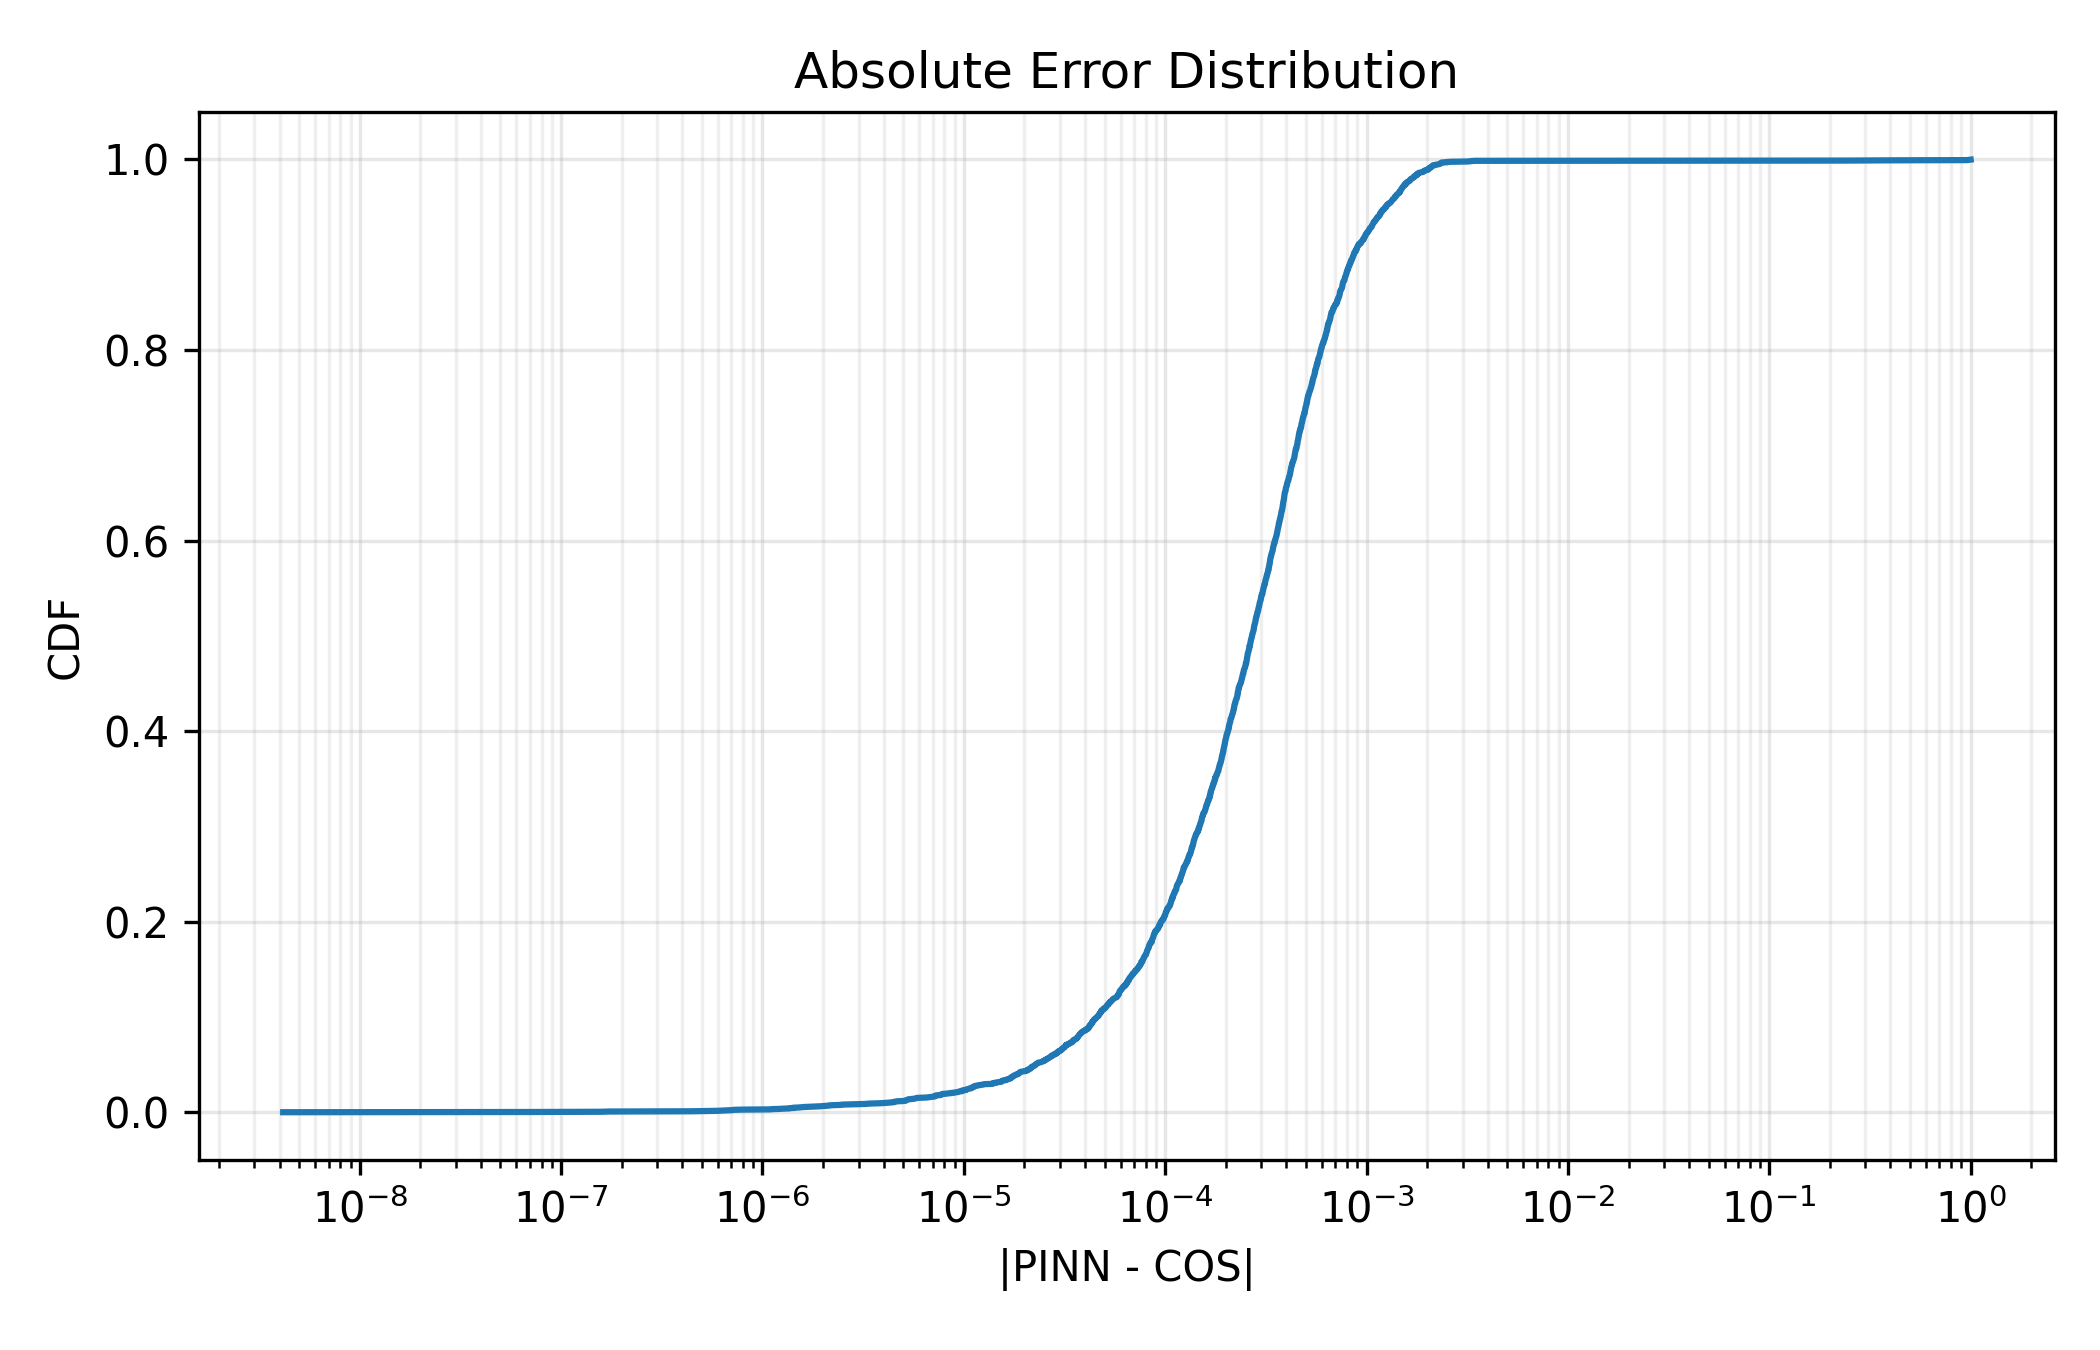
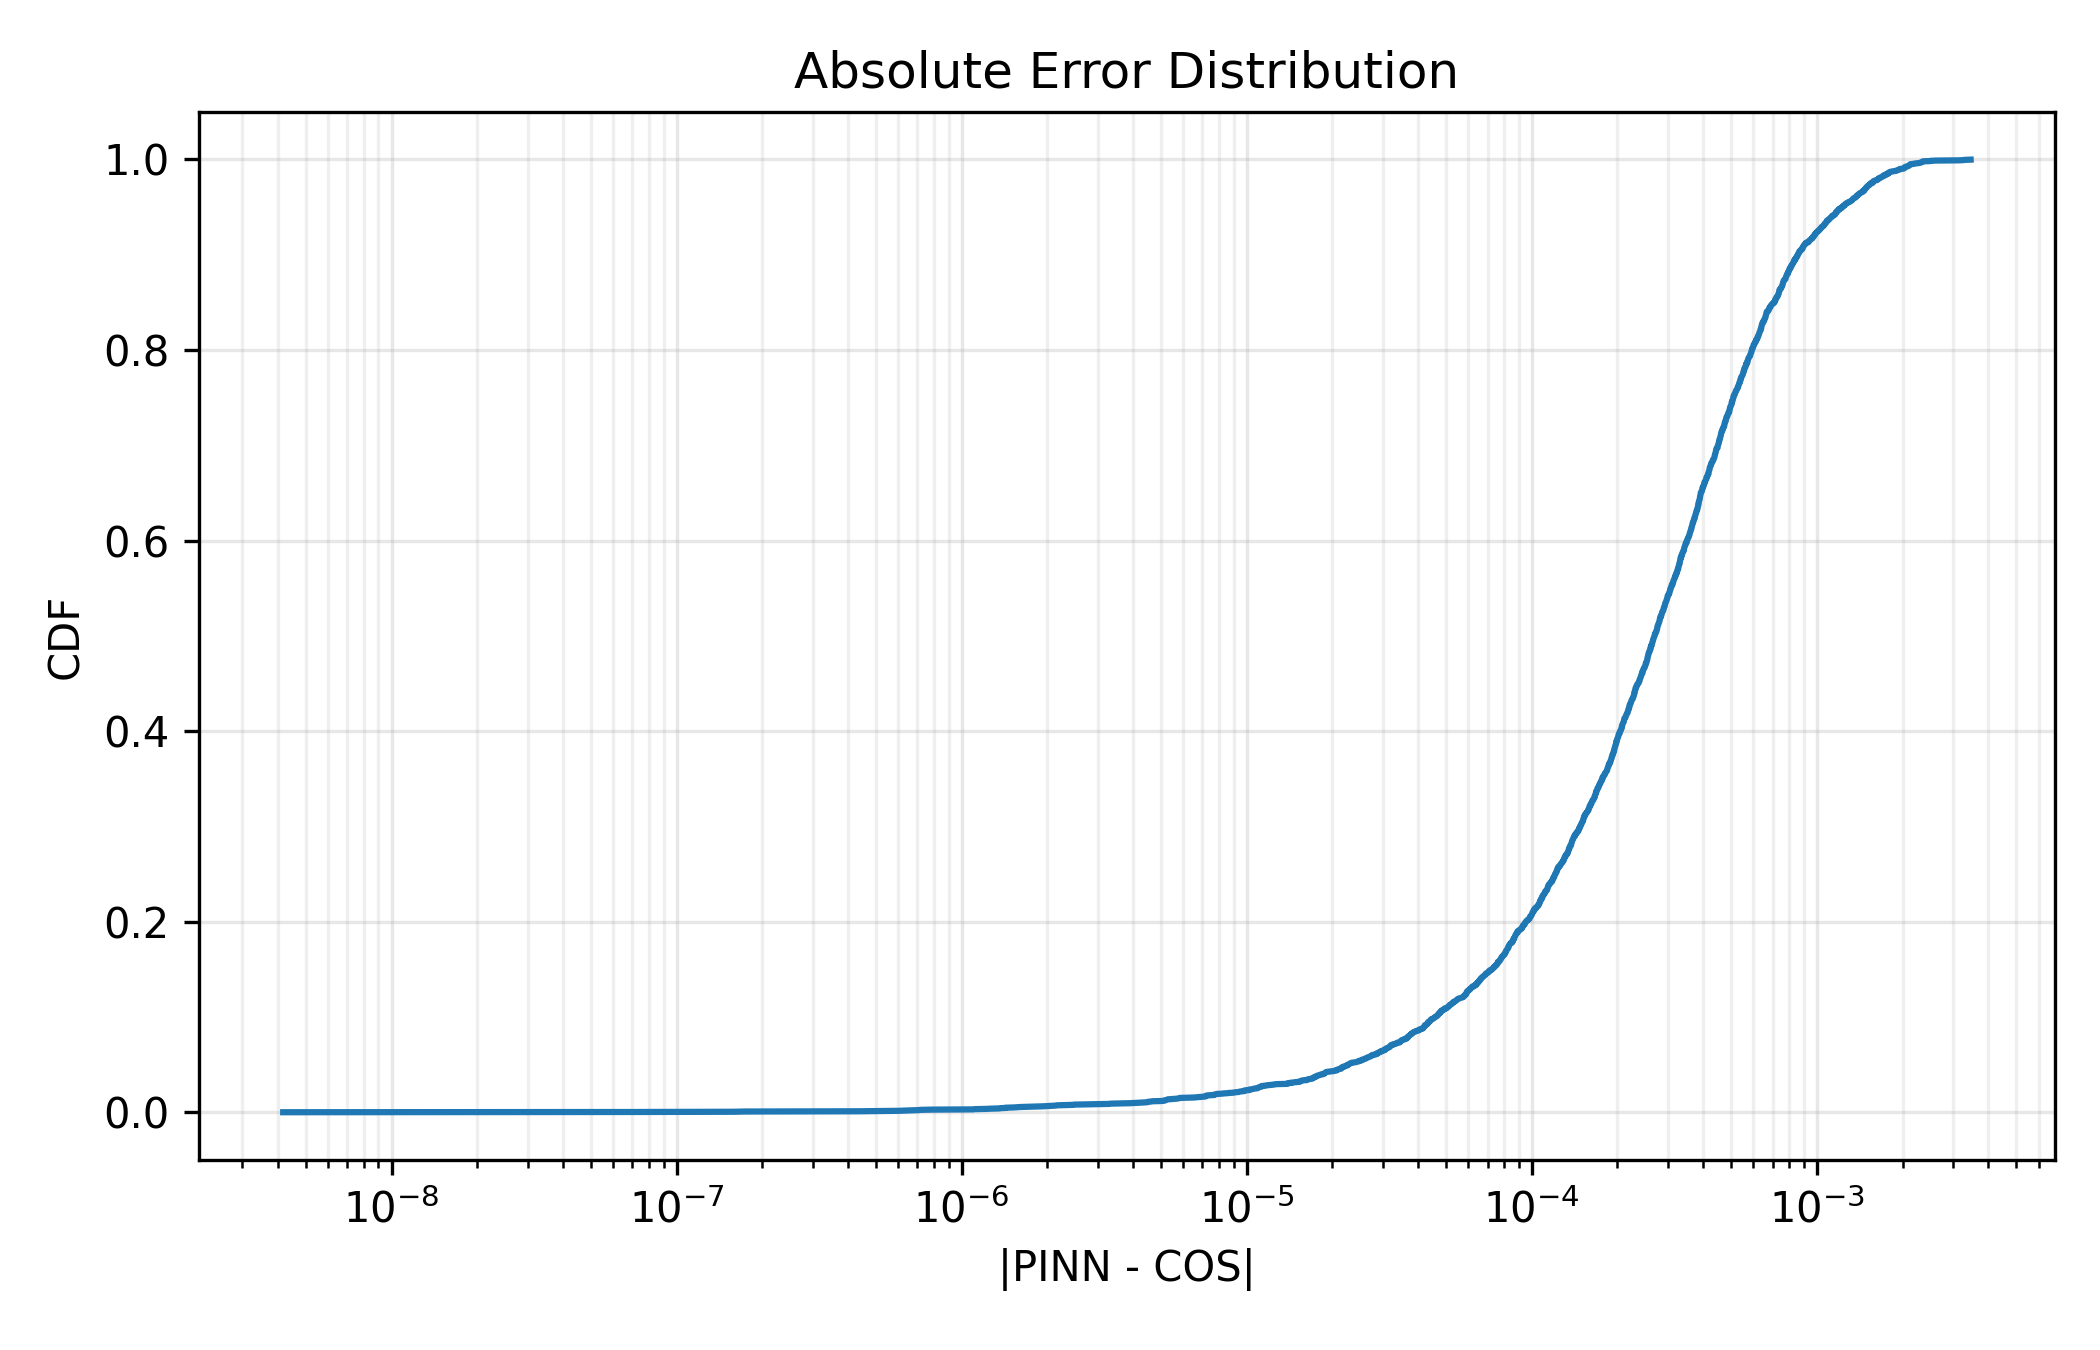
new run plots

diff --git a/scripts/benchmark_pinn_vs_cos.py b/scripts/benchmark_pinn_vs_cos.py
@@ -13,6 +13,7 @@ import yaml
 
 matplotlib.use("Agg")
 import matplotlib.pyplot as plt
+from matplotlib.colors import LogNorm
 
 
 PROJECT_ROOT = Path(__file__).resolve().parents[1]
@@ -90,7 +91,12 @@ def _predict_cos(
     cos_interval_rule: str,
     option_type: str,
     strike: float,
-) -> tuple[np.ndarray, int]:
+    cos_fallback_enabled: bool,
+    cos_fallback_interval_rule: str,
+    cos_fallback_N: int,
+    cos_fallback_L: float,
+    no_arb_tol: float,
+) -> tuple[np.ndarray, dict[str, int]]:
     idx = {name: i for i, name in enumerate(feature_order)}
     required = ["tau", "moneyness", "v", "rho", "kappa", "gamma", "bar_v", "r"]
     missing = [k for k in required if k not in idx]
@@ -98,8 +104,45 @@ def _predict_cos(
         raise KeyError(f"Missing required feature(s) for COS benchmark: {missing}")
 
     out = np.full(shape=x.shape[0], fill_value=np.nan, dtype=np.float64)
-    failed = 0
+    stats = {
+        "failed": 0,
+        "fallback_used": 0,
+        "fallback_emergency_used": 0,
+        "invalid_primary": 0,
+        "invalid_after_fallback": 0,
+    }
     cos_params = np.array([int(cos_N), float(cos_L)], dtype=np.float64)
+    cos_fallback_params = np.array([int(cos_fallback_N), float(cos_fallback_L)], dtype=np.float64)
+    opt_key = str(option_type).strip().lower()
+
+    def _price_once(*, interval_rule: str, params: np.ndarray) -> float:
+        return float(
+            COS_solver_scalar(
+                params_Heston=params_heston,
+                S0=S0,
+                K=float(strike),
+                tau=tau,
+                r=r,
+                COS_params=params,
+                opt_type=opt_key,
+                interval_rule=interval_rule,
+            )
+        )
+
+    def _is_no_arb_valid(price: float) -> bool:
+        if not np.isfinite(price):
+            return False
+        disc_k = float(strike) * float(np.exp(-r * tau))
+        if opt_key == "put":
+            lb = max(disc_k - S0, 0.0)
+            ub = disc_k
+        elif opt_key == "call":
+            lb = max(S0 - disc_k, 0.0)
+            ub = S0
+        else:
+            raise ValueError(f"Unsupported option_type '{option_type}'. Use put/call.")
+        tol = float(max(no_arb_tol, 0.0))
+        return (price >= (lb - tol)) and (price <= (ub + tol))
 
     for i in range(x.shape[0]):
         tau = float(x[i, idx["tau"]])
@@ -114,24 +157,57 @@ def _predict_cos(
         # In normalized coordinates K=1 by construction, so S0 = moneyness.
         S0 = m * float(strike)
         params_heston = np.array([rho, kappa, gamma, bar_v, v], dtype=np.float64)
+        price = np.nan
+        primary_ok = False
         try:
-            out[i] = float(
-                COS_solver_scalar(
-                    params_Heston=params_heston,
-                    S0=S0,
-                    K=float(strike),
-                    tau=tau,
-                    r=r,
-                    COS_params=cos_params,
-                    opt_type=option_type,
-                    interval_rule=cos_interval_rule,
-                )
-            )
+            price = _price_once(interval_rule=cos_interval_rule, params=cos_params)
+            primary_ok = _is_no_arb_valid(price)
+            if not primary_ok:
+                stats["invalid_primary"] += 1
         except Exception:
-            failed += 1
-            out[i] = np.nan
+            primary_ok = False
 
-    return out, failed
+        if (not primary_ok) and bool(cos_fallback_enabled):
+            try:
+                fallback_price = _price_once(
+                    interval_rule=cos_fallback_interval_rule,
+                    params=cos_fallback_params,
+                )
+                if _is_no_arb_valid(fallback_price):
+                    price = fallback_price
+                    primary_ok = True
+                    stats["fallback_used"] += 1
+            except Exception:
+                pass
+
+        if (not primary_ok) and bool(cos_fallback_enabled):
+            emergency_params = np.array(
+                [
+                    int(max(cos_N, cos_fallback_N)),
+                    float(max(cos_L, cos_fallback_L, 120.0)),
+                ],
+                dtype=np.float64,
+            )
+            try:
+                emergency_price = _price_once(
+                    interval_rule="sqrt_t",
+                    params=emergency_params,
+                )
+                if _is_no_arb_valid(emergency_price):
+                    price = emergency_price
+                    primary_ok = True
+                    stats["fallback_emergency_used"] += 1
+            except Exception:
+                pass
+
+        if not primary_ok:
+            stats["failed"] += 1
+            stats["invalid_after_fallback"] += 1
+            out[i] = np.nan
+        else:
+            out[i] = price
+
+    return out, stats
 
 
 def _compute_metrics(
@@ -239,16 +315,31 @@ def _save_heatmap_plot(
     title: str,
     cbar_label: str,
     cmap: str,
+    log_scale: bool = False,
 ) -> None:
     fig, ax = plt.subplots(figsize=(8.4, 5.2))
     cmap_obj = plt.get_cmap(cmap).copy()
     cmap_obj.set_bad(color="#f2f2f2")
+    norm = None
+    matrix_plot = matrix
+    if log_scale:
+        valid = np.isfinite(matrix) & (matrix > 0.0)
+        if np.any(valid):
+            data = matrix[valid]
+            vmin = float(np.nanpercentile(data, 5.0))
+            vmax = float(np.nanpercentile(data, 95.0))
+            vmin = max(vmin, float(np.finfo(np.float64).tiny))
+            if vmax <= vmin:
+                vmax = vmin * 10.0
+            norm = LogNorm(vmin=vmin, vmax=vmax)
+            matrix_plot = np.where(np.isfinite(matrix), np.maximum(matrix, vmin), np.nan)
     im = ax.imshow(
-        matrix,
+        matrix_plot,
         origin="lower",
         aspect="auto",
         extent=[m_edges[0], m_edges[-1], tau_edges[0], tau_edges[-1]],
         cmap=cmap_obj,
+        norm=norm,
     )
     cbar = plt.colorbar(im, ax=ax)
     cbar.set_label(cbar_label)
@@ -275,8 +366,45 @@ def main() -> None:
         default="cumulant_autodiff",
         help="COS interval rule: sqrt_t | cumulant_autodiff",
     )
+    parser.set_defaults(cos_fallback_enabled=True)
+    parser.add_argument(
+        "--cos-fallback-enabled",
+        dest="cos_fallback_enabled",
+        action="store_true",
+        help="Enable COS fallback pass when primary result violates no-arbitrage bounds.",
+    )
+    parser.add_argument(
+        "--no-cos-fallback",
+        dest="cos_fallback_enabled",
+        action="store_false",
+        help="Disable COS fallback pass and keep only the primary COS configuration.",
+    )
+    parser.add_argument(
+        "--cos-fallback-interval-rule",
+        type=str,
+        default="sqrt_t",
+        help="Fallback COS interval rule: sqrt_t | cumulant_autodiff",
+    )
+    parser.add_argument(
+        "--cos-fallback-N",
+        type=int,
+        default=1500,
+        help="Fallback COS truncation terms N.",
+    )
+    parser.add_argument(
+        "--cos-fallback-L",
+        type=float,
+        default=80.0,
+        help="Fallback COS truncation width L.",
+    )
     parser.add_argument("--option-type", type=str, default="put", help="put|call")
     parser.add_argument("--strike", type=float, default=1.0, help="Strike used by COS benchmark.")
+    parser.add_argument(
+        "--no-arb-tol",
+        type=float,
+        default=1.0e-8,
+        help="Tolerance used in no-arbitrage validity checks for COS outputs.",
+    )
     parser.add_argument("--mape-floor", type=float, default=1.0e-4, help="Denominator floor for MAPE.")
     parser.add_argument("--n-bins", type=int, default=24, help="Bins per axis for heatmaps.")
     args = parser.parse_args()
@@ -348,7 +476,7 @@ def main() -> None:
     pinn_seconds = float(time.perf_counter() - t0)
 
     t1 = time.perf_counter()
-    y_cos, n_failed = _predict_cos(
+    y_cos, cos_stats = _predict_cos(
         x=x_eval,
         feature_order=feature_order,
         cos_N=int(args.cos_N),
@@ -356,6 +484,11 @@ def main() -> None:
         cos_interval_rule=str(args.cos_interval_rule),
         option_type=str(args.option_type),
         strike=float(args.strike),
+        cos_fallback_enabled=bool(args.cos_fallback_enabled),
+        cos_fallback_interval_rule=str(args.cos_fallback_interval_rule),
+        cos_fallback_N=int(args.cos_fallback_N),
+        cos_fallback_L=float(args.cos_fallback_L),
+        no_arb_tol=float(args.no_arb_tol),
     )
     cos_seconds = float(time.perf_counter() - t1)
 
@@ -378,7 +511,11 @@ def main() -> None:
             "collocation_interior": str(interior_path),
             "n_input_points": int(x_eval.shape[0]),
             "n_valid_points": int(x_valid.shape[0]),
-            "n_failed_cos": int(n_failed),
+            "n_failed_cos": int(cos_stats.get("failed", 0)),
+            "cos_fallback_used": int(cos_stats.get("fallback_used", 0)),
+            "cos_fallback_emergency_used": int(cos_stats.get("fallback_emergency_used", 0)),
+            "cos_invalid_primary": int(cos_stats.get("invalid_primary", 0)),
+            "cos_invalid_after_fallback": int(cos_stats.get("invalid_after_fallback", 0)),
             "feature_order": feature_order,
             "input_scaling_enabled": bool(input_scaling.get("enabled", False)),
             "input_scaling_method": input_scaling.get("method"),
@@ -387,12 +524,17 @@ def main() -> None:
             "pinn_points_per_second": float(x_eval.shape[0] / max(pinn_seconds, 1.0e-12)),
             "cos_points_per_second": float(x_eval.shape[0] / max(cos_seconds, 1.0e-12)),
             "cos_params": {
-                "N": int(args.cos_N),
-                "L": float(args.cos_L),
-                "interval_rule": str(args.cos_interval_rule),
-                "option_type": str(args.option_type),
-                "strike": float(args.strike),
-            },
+                    "N": int(args.cos_N),
+                    "L": float(args.cos_L),
+                    "interval_rule": str(args.cos_interval_rule),
+                    "fallback_enabled": bool(args.cos_fallback_enabled),
+                    "fallback_N": int(args.cos_fallback_N),
+                    "fallback_L": float(args.cos_fallback_L),
+                    "fallback_interval_rule": str(args.cos_fallback_interval_rule),
+                    "no_arb_tol": float(args.no_arb_tol),
+                    "option_type": str(args.option_type),
+                    "strike": float(args.strike),
+                },
         }
     )
 
@@ -438,8 +580,26 @@ def main() -> None:
         m_edges=m_edges,
         out_path=fig_dir / "abs_error_map_m_tau.png",
         title="PINN vs COS | Mean Absolute Error by Zone",
-        cbar_label="mean |PINN - COS|",
+        cbar_label="mean |PINN - COS| (log scale)",
         cmap="magma",
+        log_scale=True,
+    )
+    rel_abs = out_df["rel_abs_error"].to_numpy(dtype=np.float64)
+    mean_rel_abs, _, _, _ = _build_error_heatmaps(
+        x=x_valid,
+        abs_err=rel_abs,
+        feature_order=feature_order,
+        n_bins=int(args.n_bins),
+    )
+    _save_heatmap_plot(
+        matrix=mean_rel_abs,
+        tau_edges=tau_edges,
+        m_edges=m_edges,
+        out_path=fig_dir / "rel_abs_error_map_m_tau.png",
+        title="PINN vs COS | Mean Relative Absolute Error by Zone",
+        cbar_label="mean |PINN - COS| / max(|COS|, floor) (log scale)",
+        cmap="magma",
+        log_scale=True,
     )
     _save_heatmap_plot(
         matrix=counts.astype(np.float64),
@@ -455,6 +615,11 @@ def main() -> None:
     print(f"Run dir: {run_dir}")
     print(f"Output dir: {out_dir}")
     print(f"Valid points: {x_valid.shape[0]} / {x_eval.shape[0]}")
+    print(
+        f"COS fallback used: {int(cos_stats.get('fallback_used', 0))} | "
+        f"COS emergency fallback used: {int(cos_stats.get('fallback_emergency_used', 0))} | "
+        f"COS failed: {int(cos_stats.get('failed', 0))}"
+    )
     print(
         f"MAE={metrics['mae']:.3e} | RMSE={metrics['rmse']:.3e} | "
         f"MAPE={metrics['mape_pct']:.3f}% | MaxAE={metrics['max_abs_error']:.3e}"
